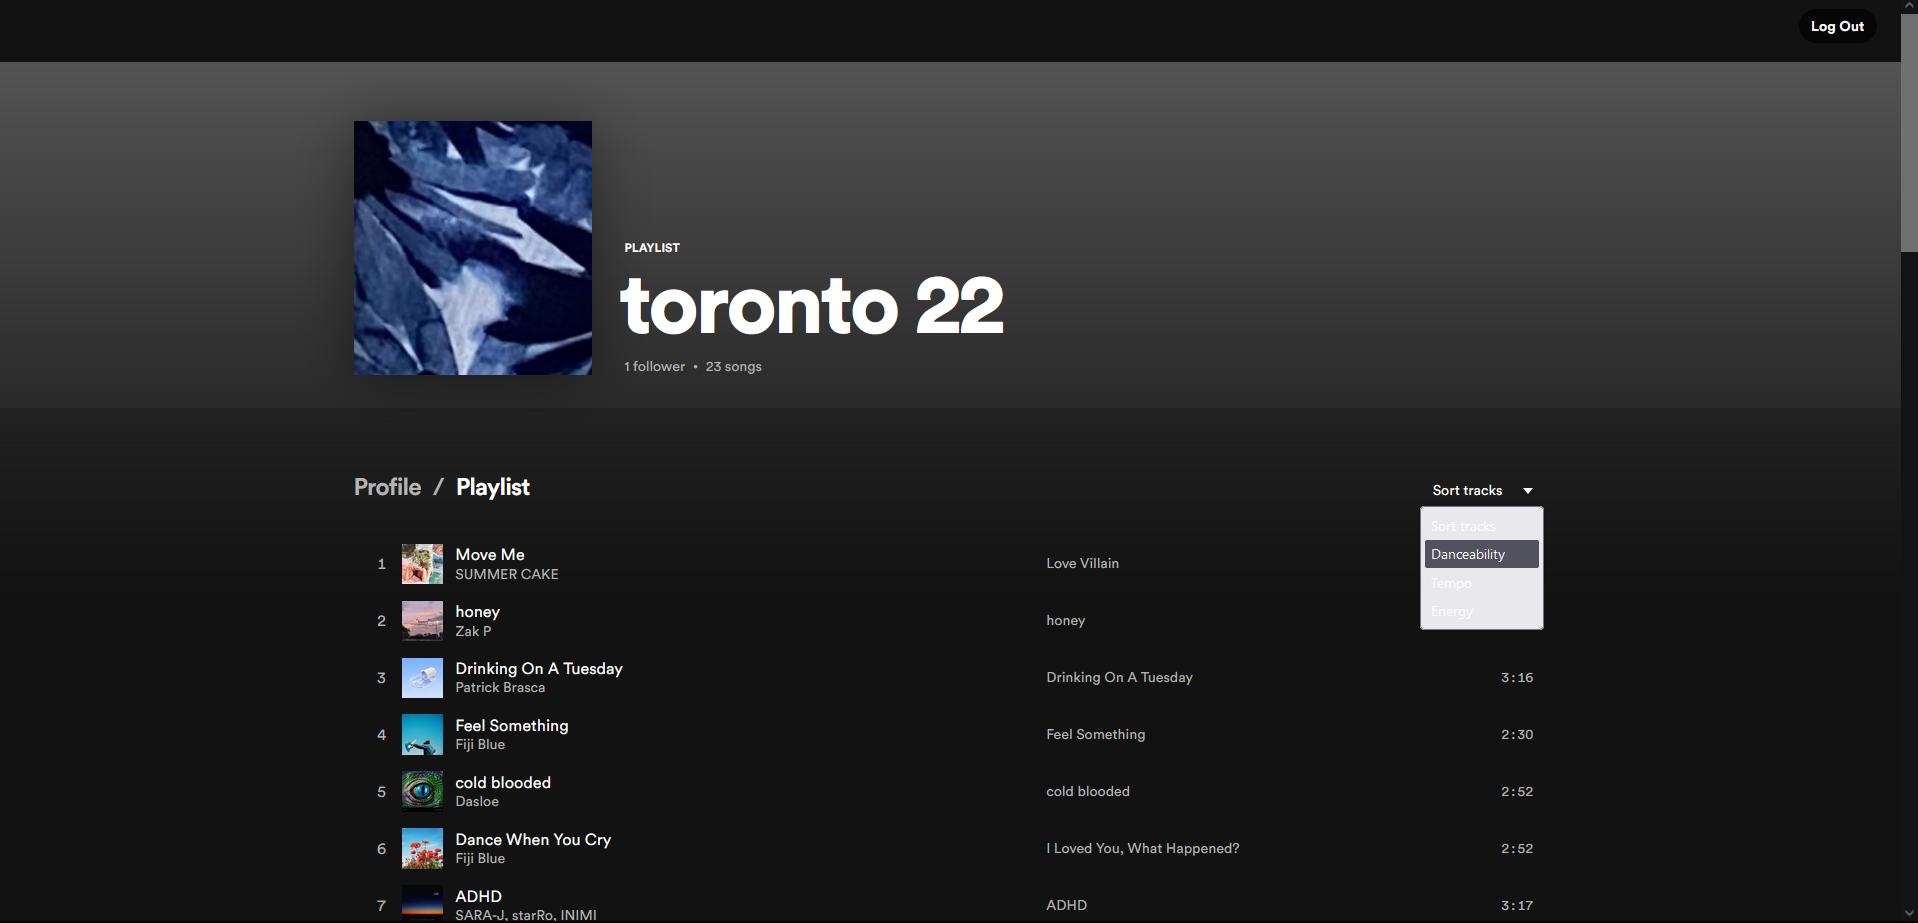
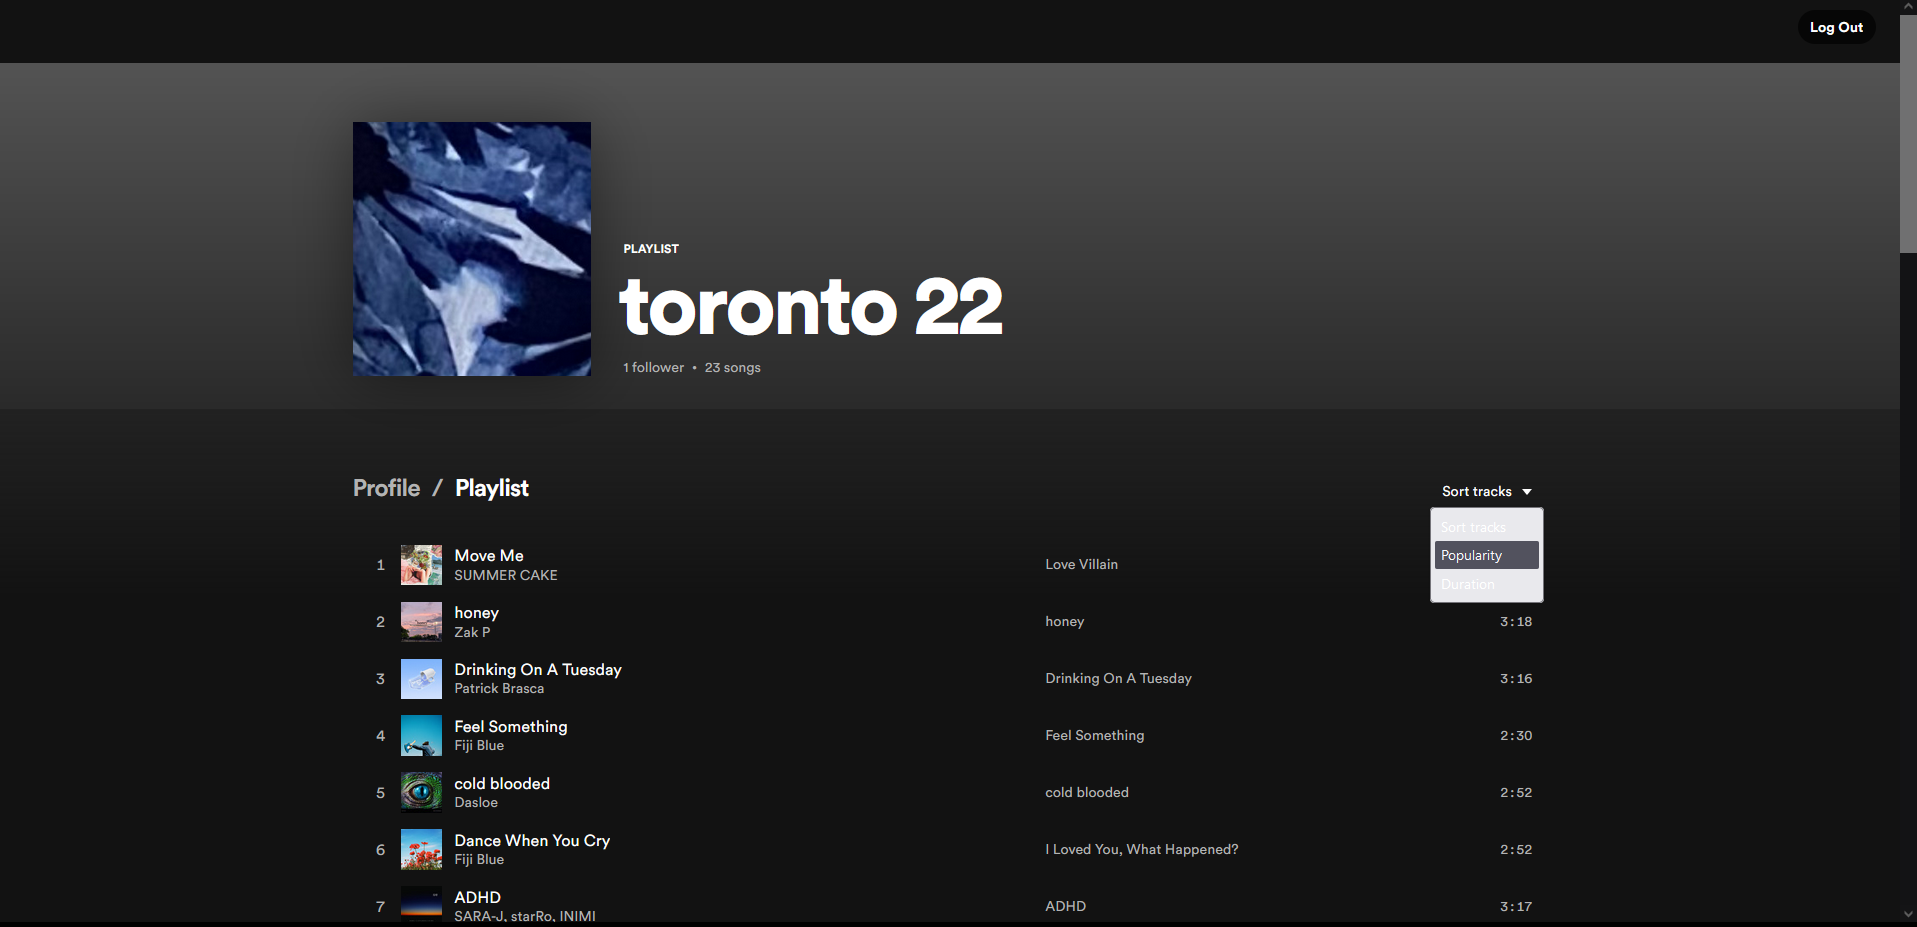
Updated README and image

diff --git a/README.md b/README.md
@@ -1,18 +1,18 @@
 # Spotify Stats
 
 ## Overview
-This project aims to utilize the Spotify API to retrieve and display profile data for a user. The application will allow users to authenticate with their Spotify account to view listening information such as their top songs, top artists, and more.
+This project uses the Spotify API to retrieve and display the user's profile data. The application will allow users to authenticate with their Spotify account to view listening information such as their top songs, top artists, and more.
 
 > :warning: **IMPORTANT NOTICE** :warning:
 >
 > Spotify has announced the deprecation of several key features in their Web API, effective **November 27th, 2024**.
 > 
-> Features in this app that utilized the Spotify API track audio features (energy, danceability, etc.) will no longer be functional
-> which means sorting playlist tracks by audio features and viewing each track's individual audio features will not be possible.
+> Features in this app that utilized the Spotify API's track audio features (energy, danceability, etc.) will no longer be functional
+> which means sorting tracks by audio features and viewing audio features will not be possible.
 >
-> UPDATE: Sorting playlist tracks by popularity and duration has been implemented and will replace sorting by audio features.
+> UPDATE: I have implemented sorting by popularity and duration to replace sorting by audio features.
 > 
-> :link: For more information, see their official announcement on the Spotify community forum: [Changes to Web API](https://community.spotify.com/t5/Spotify-for-Developers/Changes-to-Web-API/td-p/6540414).
+> :link: See their official announcement on the Spotify community forum: [Changes to Web API](https://community.spotify.com/t5/Spotify-for-Developers/Changes-to-Web-API/td-p/6540414).
 >
 > :link: Direct link to Spotify blog post: [Introducing some changes to our Web API](https://developer.spotify.com/blog/2024-11-27-changes-to-the-web-api)
 
